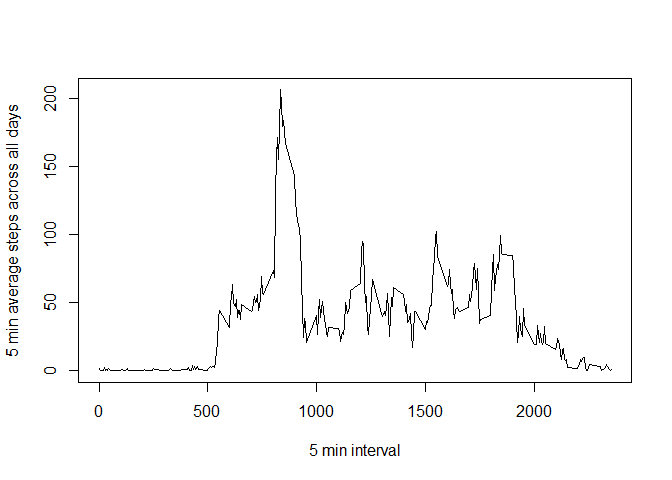
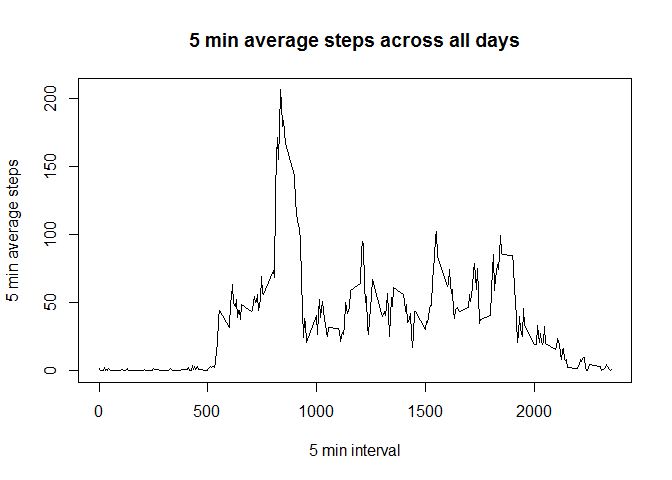
Third commit

Changed region(s): [[0.2812, 0.0625, 0.7812, 0.125], [0.0, 0.2188, 0.0312, 0.75]]

diff --git a/PA1_template.html b/PA1_template.html
@@ -120,12 +120,14 @@ $(document).ready(function () {
 </div>
 
 
-<pre class="r"><code>library(knitr)
+<pre class="r"><code>##Set global options
+library(knitr)
 opts_chunk$set(echo=TRUE)
 options(scipen = 999, digits = 4)</code></pre>
 <div id="loading-and-preprocessing-the-data" class="section level2">
 <h2>Loading and preprocessing the data</h2>
-<pre class="r"><code>activityDF &lt;- read.csv(&quot;activity.csv&quot;)
+<pre class="r"><code>##Load data from CSV and plot histogram of total steps taken each day
+activityDF &lt;- read.csv(&quot;activity.csv&quot;)
 stepsByDay &lt;- aggregate(activityDF$steps, by = list(date = activityDF$date),
                         FUN = sum, na.rm = TRUE)
 hist(stepsByDay$x, col = &quot;red&quot;, xlab = &quot;Total number of steps taken each day&quot;,
@@ -134,22 +136,31 @@ hist(stepsByDay$x, col = &quot;red&quot;, xlab = &quot;Total number of steps tak
 </div>
 <div id="what-is-mean-total-number-of-steps-taken-per-day" class="section level2">
 <h2>What is mean total number of steps taken per day?</h2>
-<pre class="r"><code>meanStepsByDay &lt;- mean(stepsByDay$x)
+<pre class="r"><code>##Compute mean and median of total steps taken each day
+meanStepsByDay &lt;- mean(stepsByDay$x)
 medianStepsByDay &lt;- median(stepsByDay$x)</code></pre>
 <p>Mean number of steps taken each day = 9354.2295<br />
 Median number of steps taken each day = 10395</p>
 </div>
 <div id="what-is-the-average-daily-activity-pattern" class="section level2">
 <h2>What is the average daily activity pattern?</h2>
-<pre class="r"><code>stepsBy5MinInt &lt;- aggregate(activityDF$steps, by = list(interval =
+<pre class="r"><code>##Compute average 5 min interval steps across all days, its max value and plot
+##the 5 min interval average steps
+stepsBy5MinInt &lt;- aggregate(activityDF$steps, by = list(interval =
                         activityDF$interval), FUN = mean, na.rm = TRUE)
 plot(stepsBy5MinInt$interval, stepsBy5MinInt$x, type = &quot;l&quot;,
-     ylab = &quot;5 min average steps across all days&quot;, xlab = &quot;5 min interval&quot;)</code></pre>
[1 lines of base64/hex data omitted]
+     ylab = &quot;5 min average steps&quot;, xlab = &quot;5 min interval&quot;,
+     main = &quot;5 min average steps across all days&quot;)</code></pre>
[1 lines of base64/hex data omitted]
+<pre class="r"><code>maxStep &lt;- max(stepsBy5MinInt$x)
+max5MinInt &lt;- stepsBy5MinInt[which(stepsBy5MinInt$x == maxStep),]$interval</code></pre>
+<p>5-minute interval, on average across all the days in the dataset, contains the maximum number of steps = 835</p>
 </div>
 <div id="imputing-missing-values" class="section level2">
 <h2>Imputing missing values</h2>
-<pre class="r"><code>good &lt;- complete.cases(activityDF)
+<pre class="r"><code>##Missing value imputed using mean value, averaged across all days, for the
+##given interval
+good &lt;- complete.cases(activityDF)
 missingCount &lt;- nrow(activityDF[!good, ])
 avgStepsByInt &lt;- aggregate(activityDF$steps, by = list(interval = activityDF$interval),
                         FUN = mean, na.rm = TRUE)
@@ -182,13 +193,14 @@ hist(stepsByDay$x, col = &quot;red&quot;, xlab = &quot;Total number of filled st
 <pre class="r"><code>meanStepsByDay &lt;- mean(stepsByDay$x)
 medianStepsByDay &lt;- median(stepsByDay$x)</code></pre>
 <p>Total missing or NA count of activities = 2304<br />
-<strong>Missing value imputed using mean value for the given interval</strong><br />
+<strong>Missing value imputed using mean value, averaged across all days, for the given interval</strong><br />
 Mean number of steps taken each day after imputing missing values = 10765.6393<br />
 Median number of steps taken each day after imputing missing values = 10762</p>
 </div>
 <div id="are-there-differences-in-activity-patterns-between-weekdays-and-weekends" class="section level2">
 <h2>Are there differences in activity patterns between weekdays and weekends?</h2>
-<pre class="r"><code>filledActivityDF$dayInd &lt;- factor(ifelse(weekdays(as.Date(filledActivityDF$date,
+<pre class="r"><code>##Plot weekday and weekend steps
+filledActivityDF$dayInd &lt;- factor(ifelse(weekdays(as.Date(filledActivityDF$date,
                                         &quot;%Y-%m-%d&quot;), abbreviate = TRUE) %in%
                                         c(&quot;Sat&quot;, &quot;Sun&quot;), &quot;weekend&quot;, &quot;weekday&quot;))
 stepsBy5MinInt &lt;- aggregate(filledActivityDF$steps, by = list(interval =

diff --git a/PA1_template.md b/PA1_template.md
@@ -1,6 +1,7 @@
 # Reproducible Research: Peer Assessment 1
 
 ```r
+##Set global options
 library(knitr)
 opts_chunk$set(echo=TRUE)
 options(scipen = 999, digits = 4)
@@ -9,6 +10,7 @@ options(scipen = 999, digits = 4)
 ## Loading and preprocessing the data
 
 ```r
+##Load data from CSV and plot histogram of total steps taken each day
 activityDF <- read.csv("activity.csv")
 stepsByDay <- aggregate(activityDF$steps, by = list(date = activityDF$date),
                         FUN = sum, na.rm = TRUE)
@@ -21,6 +23,7 @@ hist(stepsByDay$x, col = "red", xlab = "Total number of steps taken each day",
 ## What is mean total number of steps taken per day?
 
 ```r
+##Compute mean and median of total steps taken each day
 meanStepsByDay <- mean(stepsByDay$x)
 medianStepsByDay <- median(stepsByDay$x)
 ```
@@ -30,17 +33,29 @@ Median number of steps taken each day = 10395
 ## What is the average daily activity pattern?
 
 ```r
+##Compute average 5 min interval steps across all days, its max value and plot
+##the 5 min interval average steps
 stepsBy5MinInt <- aggregate(activityDF$steps, by = list(interval =
                         activityDF$interval), FUN = mean, na.rm = TRUE)
 plot(stepsBy5MinInt$interval, stepsBy5MinInt$x, type = "l",
-     ylab = "5 min average steps across all days", xlab = "5 min interval")
+     ylab = "5 min average steps", xlab = "5 min interval",
+     main = "5 min average steps across all days")
 ```
 
 ![](PA1_template_files/figure-html/meanSteps_plot-1.png)<!-- -->
 
+```r
+maxStep <- max(stepsBy5MinInt$x)
+max5MinInt <- stepsBy5MinInt[which(stepsBy5MinInt$x == maxStep),]$interval
+```
+5-minute interval, on average across all the days in the dataset, contains the
+maximum number of steps = 835
+
 ## Imputing missing values
 
 ```r
+##Missing value imputed using mean value, averaged across all days, for the
+##given interval
 good <- complete.cases(activityDF)
 missingCount <- nrow(activityDF[!good, ])
 avgStepsByInt <- aggregate(activityDF$steps, by = list(interval = activityDF$interval),
@@ -80,7 +95,8 @@ medianStepsByDay <- median(stepsByDay$x)
 ```
 
 Total missing or NA count of activities = 2304  
-**Missing value imputed using mean value for the given interval**  
+**Missing value imputed using mean value, averaged across all days, 
+for the given interval**  
 Mean number of steps taken each day after imputing missing values = 10765.6393  
 Median number of steps taken each day after imputing missing values = 10762
 
@@ -88,6 +104,7 @@ Median number of steps taken each day after imputing missing values = 10762
 
 
 ```r
+##Plot weekday and weekend steps
 filledActivityDF$dayInd <- factor(ifelse(weekdays(as.Date(filledActivityDF$date,
                                         "%Y-%m-%d"), abbreviate = TRUE) %in%
                                         c("Sat", "Sun"), "weekend", "weekday"))
